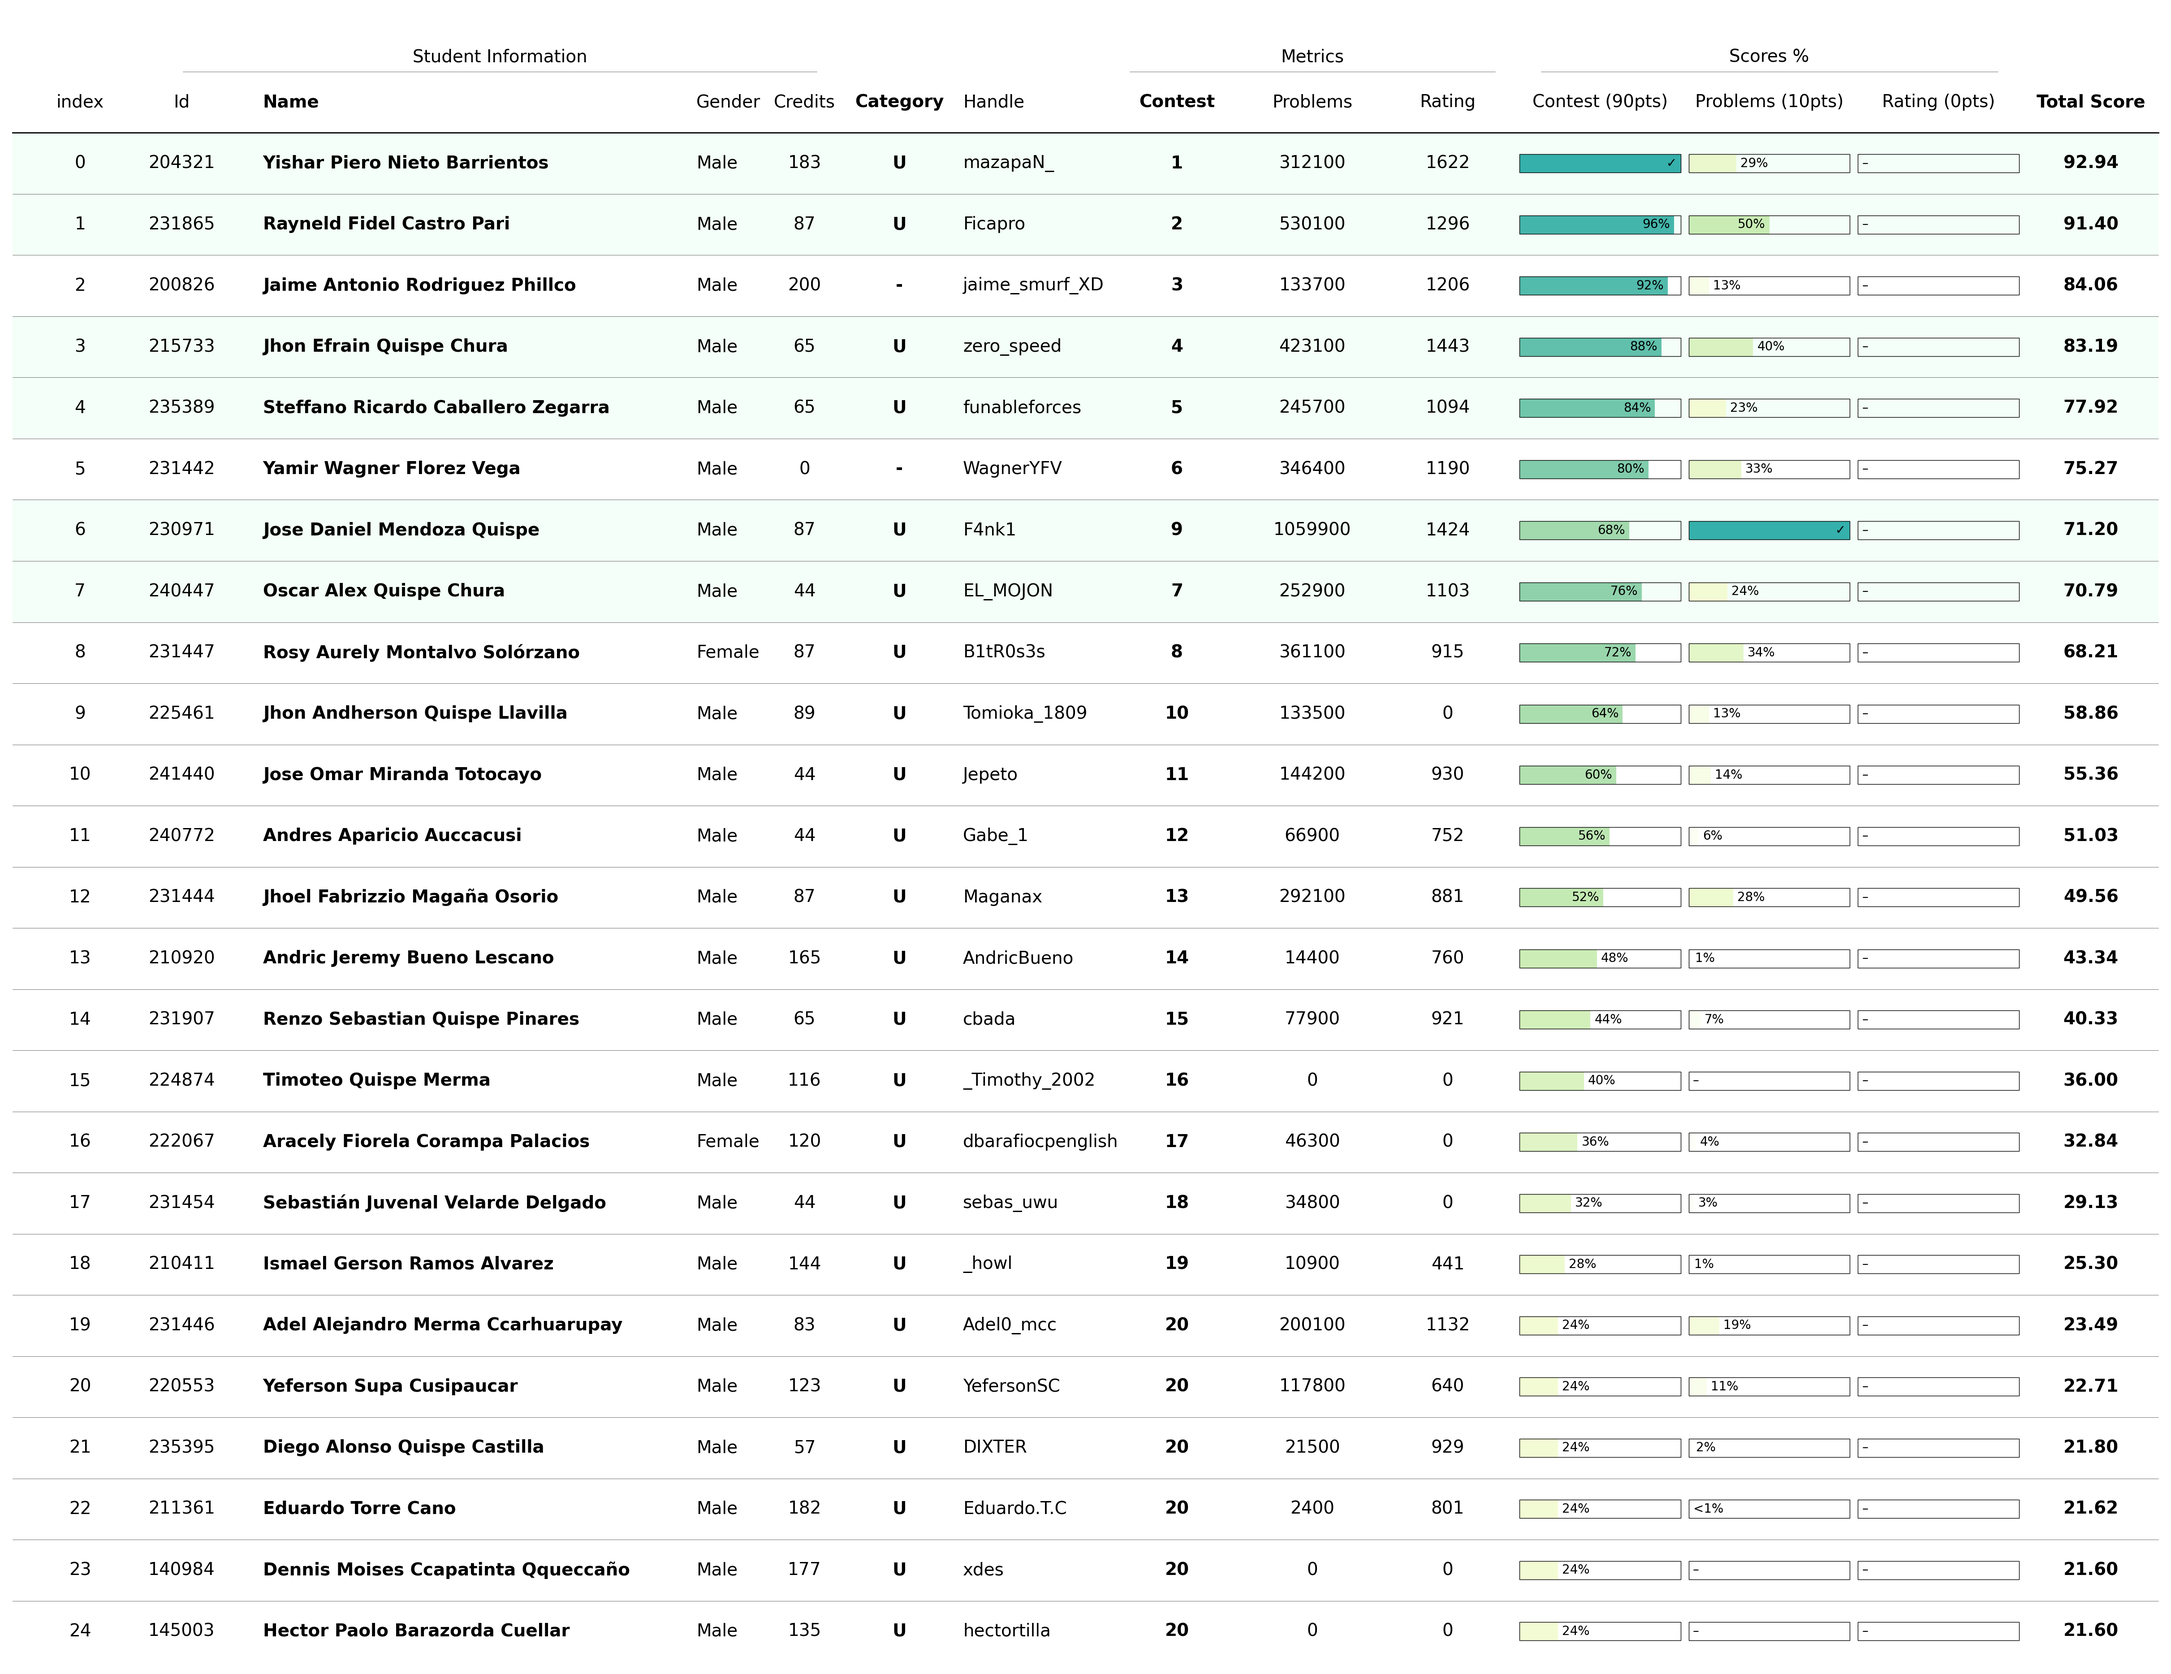
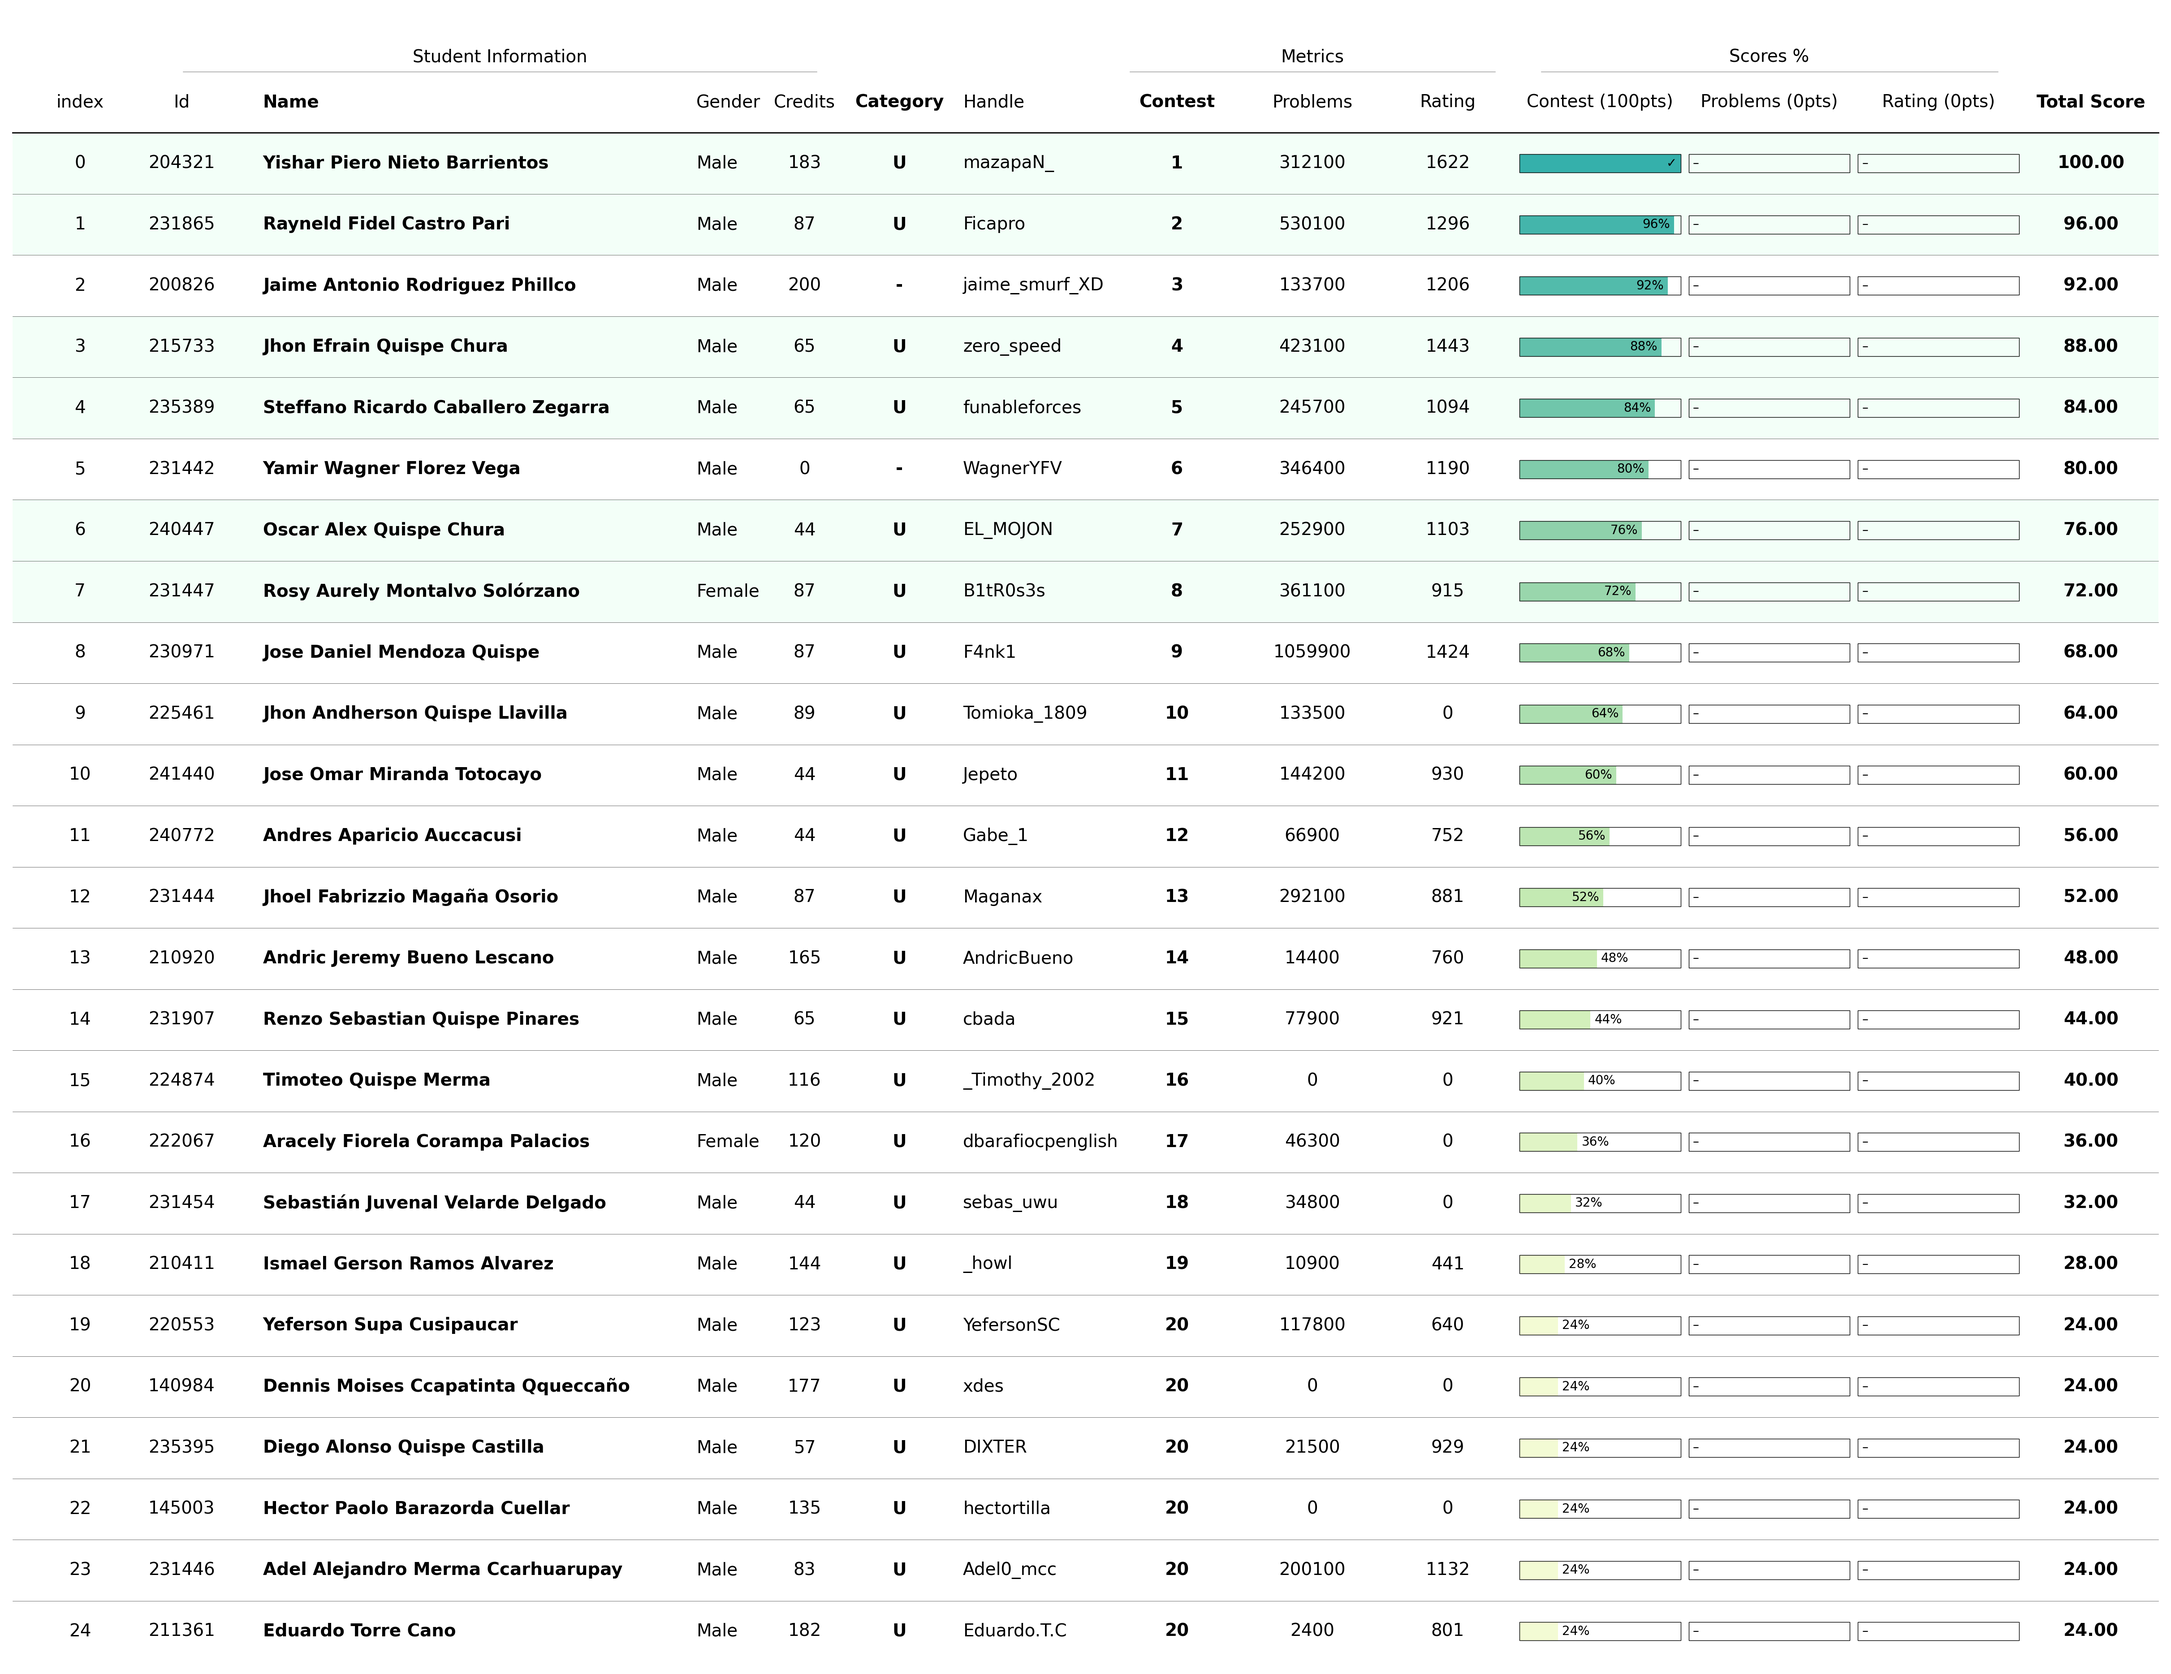
update ranking

diff --git a/ranking/training-camp-argentina-2025/report.md b/ranking/training-camp-argentina-2025/report.md
@@ -24,7 +24,7 @@ El concurso de selección se realizó utilizando la plataforma [Virtual Judge](h
 - **Concurso**: [2025 - Selectiva Training Camp Argentina](https://vjudge.net/contest/715074)
 - **Contraseña**: `cpunsaac10`
 - **Duración**: `3 horas`
-- **Participantes**: `26`
+- **Participantes**: `25`
 - **Problemas**: `10`
   - **[A - Piccoro](https://cses.fi/problemset/task/1641)**
   - **[B - Freezer](https://www.spoj.com/problems/RPLD/en/)**
